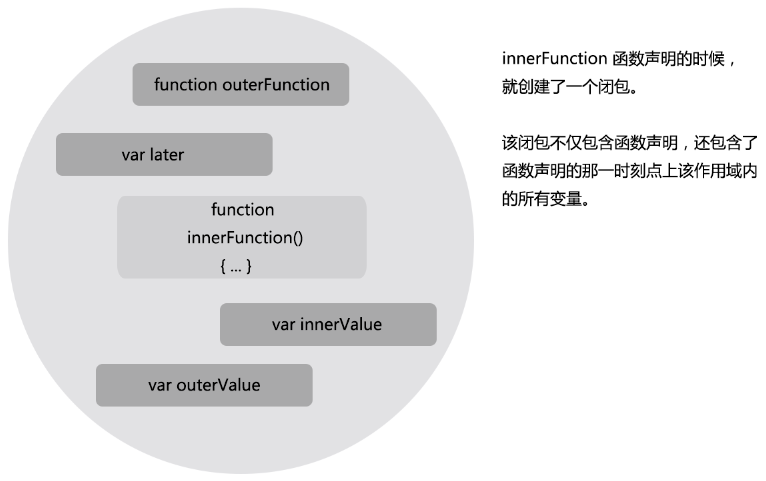
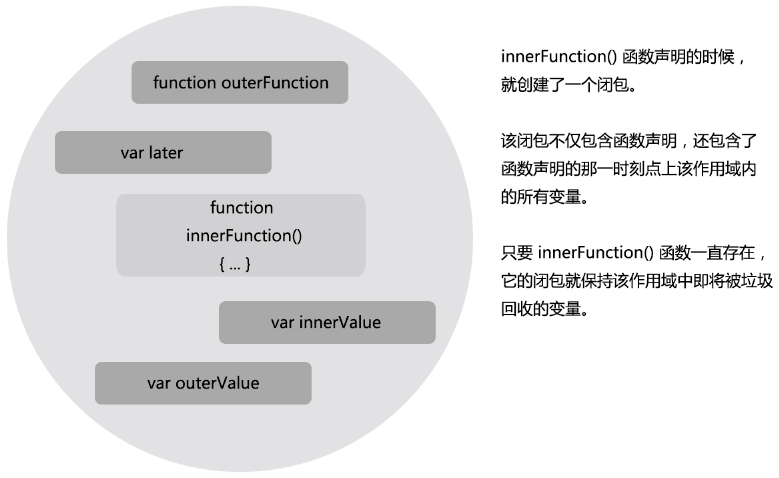
new png

diff --git a/JS-JSNinja/Ninja-闭包.md b/JS-JSNinja/Ninja-闭包.md
@@ -56,6 +56,8 @@
 
 - 针对在函数声明那一时刻点的作用域内的所有函数和变量，闭包创建了一个<span style="color:red;">“安全气泡”</span>，因此函数获得了执行操作所需的所有东西。
 
+![closure](https://github.com/RukiQ/blog-learning-patch/blob/master/JS-JSNinja/img/closure.png?raw=true)
+
 <span style="background:yellow">闭包的三个有趣的概念：</span>
 
 1. 内部函数的参数是包含在闭包中的。
